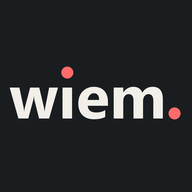
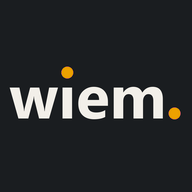
wiem.task w nawigacji + kolorystyka per modul
Modul zadan istnial od wczoraj, ale nie mial ZADNEGO wejscia — wchodzilo sie
wylacznie wpisujac /task z reki. Teraz jest w MODULY, wiec pojawia sie
w przelaczniku i w obu paskach.

Kolory kompleksowo, nie tylko znak. Dotad kolorowy byl wylacznie znak
(--marka z auth.js), a akcenty — przyciski, obramowania, plakietki —
zostawaly koralowe we WSZYSTKICH modulach. Czyli formularze w module zdrowia
byly pomalowane kolorem finansow. Kazdy modul dostaje teraz pelna palete,
wzorem bloku `eat`:

  finance  zloto  --marka #eda100  accent #6d4e10 / #eda100
  health   turkus --marka #00c4ba  accent #00695f / #2ad4ca
  task     koral  --marka #ff6b6b  accent #b4453a / #ff8b8b
  eat      zielen — bez zmian

Paleta finansow siedzi w :root jako wartosc domyslna, bo finanse sa modulem
bez `data-modul` — dzieki temu strony spoza modulow (admin, profil) dostaja
akcent finansow. health.html i task.html dopisane do _STRONY_MODULU, inaczej
serwer nie oznaczylby stron i bloki CSS nigdy by sie nie wlaczyly.

Trzy rzeczy naprawione przy okazji, wszystkie wykryte licznikiem kontrastu:

- --accent #c94f43 mial na papierze 4,01, czyli PONIZEJ progu 4,5 — mimo
  komentarza obok, ktory twierdzil, ze przechodzi. Koral zadan to #b4453a
  z 4,87.
- Gorny i dolny pasek mialy koral wpisany na sztywno (style.css:144 i :725),
  poza mechanizmem modulow. Dokladnie ta pulapka, przed ktora ostrzega
  komentarz przy bloku eat. Oba przestawione.
[…]

Changed region(s): [[0.875, 0.5625, 0.9375, 0.625], [0.3125, 0.3438, 0.375, 0.4062]]

diff --git a/static/style.css b/static/style.css
@@ -18,12 +18,22 @@
   --primary-dark: #14171a;
   --on-primary: #fbf9f4;
 
-  --accent: #c94f43;         /* koral przyciemniony — przechodzi kontrast na tekst */
-  --accent-strong: #9c3a30;  /* na tekst przy jasnym tle */
-  --accent-soft: #fbeae7;
-  --accent-border: #f2c9c2;
-  --marka: #ff6b6b;          /* koral — wartość zapasowa; auth.js nadpisuje ją
-                                kolorem bieżącego modułu na <html> */
+  /* Akcent finansów — złoto. Wartości domyślne, bo finanse są modułem bez
+     `data-modul` (patrz _STRONY_MODULU w main.py); pozostałe moduły nadpisują
+     je niżej. Odcienie dobrane licznikiem kontrastu:
+       #6d4e10 — 6,3 na papierze (poprzedni koral #c94f43 miał 4,01, czyli
+                 mimo komentarza NIE przechodził progu 4,5),
+       #503a0b — 9,0 na plakietce #fbf1da.
+     Świadomie ciemniejsze od samego złota marki: jaśniejsze odcienie siadały
+     17 jednostek RGB od --warn i przypomnienie o płatności przestawało się
+     odróżniać od zwykłego akcentu. */
+  --accent: #6d4e10;
+  --accent-strong: #503a0b;  /* na tekst przy jasnym tle */
+  --accent-soft: #fbf1da;
+  --accent-border: #e9d6a0;
+  --marka: #eda100;          /* złoto finansów — wartość zapasowa; auth.js nadpisuje
+                                ją kolorem bieżącego modułu na <html>. Koral przeszedł
+                                do wiem.task, więc zapas musiał pójść za finansami. */
 
   --good: #4f7a52;      --good-bg: #e9f2e9;   --good-border: #c3ddc5;
   --danger: #b4453a;    --danger-bg: #fbeae8; --danger-border: #f0cac5;
@@ -52,11 +62,11 @@
     --primary-dark: #fbf9f4;
     --on-primary: #17191c;
 
-    --accent: #ff8b8b;
-    --accent-strong: #ffa8a8;
-    --accent-soft: #3a2220;
-    --accent-border: #55302c;
-    --marka: #ff6b6b;
+    --accent: #eda100;
+    --accent-strong: #f5c04d;
+    --accent-soft: #302713;
+    --accent-border: #4d3f1e;
+    --marka: #eda100;
 
     --good: #6fa572;    --good-bg: #1d2a1f;   --good-border: #2f4432;
     --danger: #d4695c;  --danger-bg: #2e1d1b; --danger-border: #4a2c28;
@@ -84,11 +94,11 @@
   --primary-dark: #fbf9f4;
   --on-primary: #17191c;
 
-  --accent: #ff8b8b;
-  --accent-strong: #ffa8a8;
-  --accent-soft: #3a2220;
-  --accent-border: #55302c;
-  --marka: #ff6b6b;
+  --accent: #eda100;
+  --accent-strong: #f5c04d;
+  --accent-soft: #302713;
+  --accent-border: #4d3f1e;
+  --marka: #eda100;
 
   --good: #6fa572;    --good-bg: #1d2a1f;   --good-border: #2f4432;
   --danger: #d4695c;  --danger-bg: #2e1d1b; --danger-border: #4a2c28;
@@ -131,7 +141,7 @@ nav {
   --heading: #f2efe9;
   --muted: #8f8a81;
   --border: #2c3036;
-  --accent: #ff8b8b;
+  --accent: #eda100;         /* złoto finansów — moduły nadpisują niżej */
   --on-primary: #17191c;
   --primary: #f2efe9;
   color-scheme: dark;
@@ -712,7 +722,7 @@ tr:hover td { background: var(--hover); }
 .bottom-nav {
   --surface: #1a1d20;
   --muted: #bdb7ac;          /* jasniej niz w gornym pasku — podpisy maja 11 px */
-  --accent: #ff8b8b;
+  --accent: #eda100;         /* złoto finansów — moduły nadpisują niżej */
   display: none;
   position: fixed;
   bottom: 0; left: 0; right: 0;
@@ -952,6 +962,61 @@ tr:hover td { background: var(--hover); }
    został koralowy — przy kolejnym module sprawdzić jedno i drugie. */
 :root[data-modul="eat"] nav,
 :root[data-modul="eat"] .bottom-nav { --accent: #9bcf3f; }
+
+/* Turkus modułu zdrowia. Wcześniej health miał kolorowy TYLKO znak (--marka
+   z auth.js), a akcenty zostawały koralowe — czyli formularze w module zdrowia
+   były pomalowane kolorem finansów. Odcienie zmierzone:
+     #00695f — 5,90 na papierze,
+     #2ad4ca — 9,63 na atramencie,
+     #004f47 na plakietce #e2f5f3 — z zapasem. */
+:root[data-modul="health"] {
+  --accent: #00695f;
+  --accent-strong: #004f47;
+  --accent-soft: #e2f5f3;
+  --accent-border: #b6e2dd;
+}
+@media (prefers-color-scheme: dark) {
+  :root[data-modul="health"]:not([data-theme="light"]) {
+    --accent: #2ad4ca;
+    --accent-strong: #4fd8d0;
+    --accent-soft: #12302e;
+    --accent-border: #234945;
+  }
+}
+:root[data-theme="dark"][data-modul="health"] {
+  --accent: #2ad4ca;
+  --accent-strong: #4fd8d0;
+  --accent-soft: #12302e;
+  --accent-border: #234945;
+}
+:root[data-modul="health"] nav,
+:root[data-modul="health"] .bottom-nav { --accent: #2ad4ca; }
+
+/* Koral przeszedł z finansów do zadań — to te same wartości, które stały
+   w :root do czasu przemalowania finansów na złoto. Jedyna zmiana to jasny
+   akcent: #c94f43 miał na papierze 4,01, więc idzie #b4453a z 4,87. */
+:root[data-modul="task"] {
+  --accent: #b4453a;
+  --accent-strong: #9c3a30;
+  --accent-soft: #fbeae7;
+  --accent-border: #f2c9c2;
+}
+@media (prefers-color-scheme: dark) {
+  :root[data-modul="task"]:not([data-theme="light"]) {
+    --accent: #ff8b8b;
+    --accent-strong: #ffa8a8;
+    --accent-soft: #3a2220;
+    --accent-border: #55302c;
+  }
+}
+:root[data-theme="dark"][data-modul="task"] {
+  --accent: #ff8b8b;
+  --accent-strong: #ffa8a8;
+  --accent-soft: #3a2220;
+  --accent-border: #55302c;
+}
+:root[data-modul="task"] nav,
+:root[data-modul="task"] .bottom-nav { --accent: #ff8b8b; }
 
 /* ── przełącznik modułów ─────────────────────────────────────────────────
    Kwadratowa siatka kropek jak w Google — ten gest jest na tyle rozpowszechniony,

diff --git a/static/auth.js b/static/auth.js
@@ -952,6 +952,9 @@ const IKONY_SVG = {
   // Krzyż w karcie, a nie serce ani puls: moduł jest o dokumentacji i wynikach,
   // nie o kondycji. Karta obrysowana, żeby nie mylił się z „dodaj" (kółko z plusem).
   zdrowie: '<rect x="3.4" y="5" width="17.2" height="14" rx="2.4"/><path class="akc" d="M12 9.2v5.6M9.2 12h5.6"/>',
+  // Kartka z odhaczonym punktem. Ptaszek w kolorze modułu (`akc`), bo to on
+  // niesie znaczenie — sama ramka jest tylko kartką i myliłaby się ze „zdrowiem".
+  zadania: '<rect x="3.6" y="4.4" width="16.8" height="15.6" rx="2.4"/><path class="akc" d="M8 12.4l2.6 2.6 5-5.2"/>',
   osoby: '<circle cx="9.2" cy="8.4" r="3.4"/><path d="M3.4 19.4c0-3.2 2.6-5.4 5.8-5.4s5.8 2.2 5.8 5.4"/><path d="M16.6 6.2a3.2 3.2 0 010 6.2M17.6 14.6c2.1.6 3.4 2.4 3.4 4.8"/>',
   osoba_plus: '<circle cx="10" cy="8.4" r="3.4"/><path d="M4.2 19.4c0-3.2 2.6-5.4 5.8-5.4 1 0 2 .2 2.8.6"/><path class="akc" d="M17.6 13.4v6.2M14.5 16.5h6.2"/>',
   pobierz: '<path class="akc" d="M12 3.6v10.2M8.4 10.6l3.6 3.6 3.6-3.6"/><path d="M4.2 16.4v2.2a1.8 1.8 0 001.8 1.8h12a1.8 1.8 0 001.8-1.8v-2.2"/>',
@@ -1021,7 +1024,11 @@ const MODULY = [
   {
     id: 'finance',
     nazwa: 'finance',
-    kolor: '#ff6b6b',
+    // Złoto, nie koral: koral przeszedł do zadań. Odcień dobrany pomiarem
+    // kontrastu wobec tła dolnego paska (#1a1d20), bo --marka jest tam kolorem
+    // PISMA aktywnej pozycji — 7,82:1 przy wymaganych 4,5:1. Ta sama wartość
+    // stoi w palecie ikon apki, więc nie jest to nowy odcień w systemie.
+    kolor: '#eda100',
     opis: 'Wydatki, konta, cele',
     ikona: 'wplywy',
     strony: [
@@ -1057,6 +1064,16 @@ const MODULY = [
     ikona: 'zdrowie',
     strony: [
       { href: '/health', ikona: 'zdrowie', label: 'Historia', pelny: 'Historia zdrowia' },
+    ],
+  },
+  {
+    id: 'task',
+    nazwa: 'task',
+    kolor: '#ff6b6b',
+    opis: 'Zadania i projekty',
+    ikona: 'zadania',
+    strony: [
+      { href: '/task', ikona: 'zadania', label: 'Zadania', pelny: 'Zadania' },
     ],
   },
 ];

diff --git a/main.py b/main.py
@@ -164,7 +164,10 @@ _MOTYW_BOOT = (
 # JUŻ W ODPOWIEDZI SERWERA. Robienie tego w JS dałoby mignięcie koralem przed
 # przemalowaniem na zielono.
 _STRONY_MODULU = {"eat.html": "eat", "przepisy.html": "eat", "statystyki.html": "eat",
-                  "skaner.html": "eat"}
+                  "skaner.html": "eat",
+                  "health.html": "health", "task.html": "task"}
+# Strony finansów celowo BEZ wpisu: ich paleta jest wartością domyślną w :root,
+# więc każda strona spoza modułów (admin, profil) dostaje akcent finansów.
 
 
 def _html(filename: str) -> HTMLResponse:
